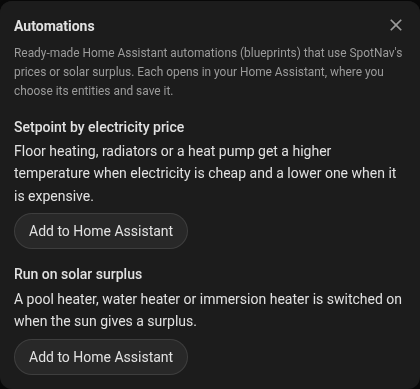
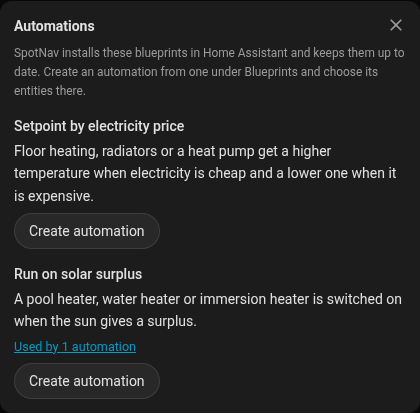
Load automations in the screenshot instance and make one from the solar blueprint, so the list shows its count.

diff --git a/tools/docs_screenshots/README.md b/tools/docs_screenshots/README.md
@@ -79,7 +79,7 @@ Written: add-type, charger-type, charger-device, charger-found, charger-adjust, 
 site-meter, site-found, site-options, card-picker, card-hero, card-from-now (the card on the From now axis), card-history, card-settings (the whole Settings
 page as it opens), card-settings-price, card-settings-vehicle (the car section with a tab per car),
 card-settings-charger (with identification and the camera), card-settings-site, card-settings-support (with
-the Automations row), card-automations (the blueprints it lists), card-camera-frame (the crop
+the Automations row), card-automations (the blueprints it lists, one used by an automation the driver makes from it), card-camera-frame (the crop
 editor), card-reference-picture, card-settings-plan, card-identifying, card-identified, card-identify-question,
 diagnostics.
 
